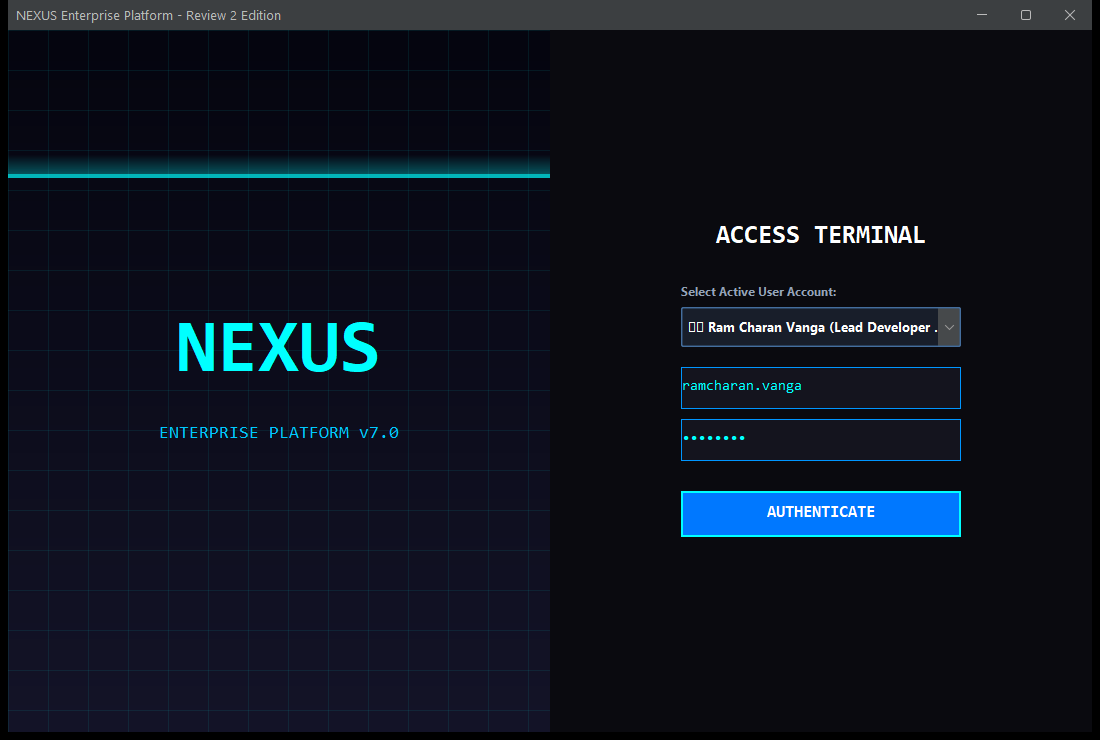
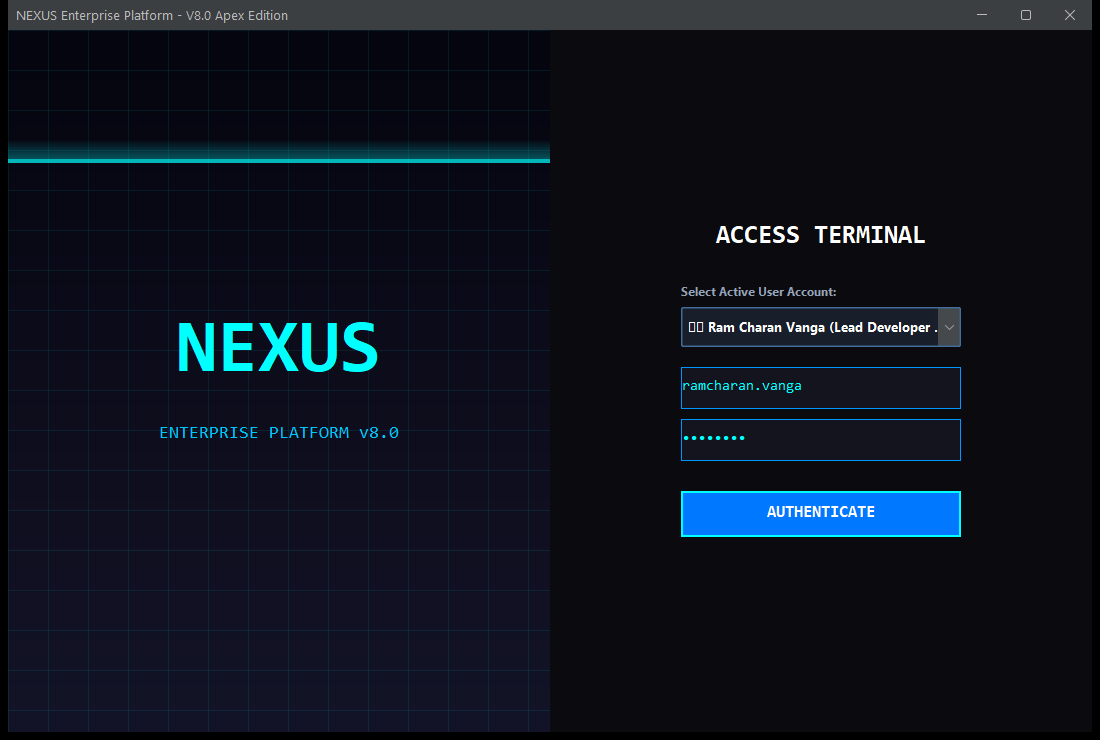
chore(release): upgrade platform to NEXUS V8.0 Apex Edition

Changed region(s): [[0.0, 0.1865, 0.5255, 0.2486], [0.1545, 0.0, 0.2782, 0.0311]]

diff --git a/src/nexus/NexusApplication.java b/src/nexus/NexusApplication.java
@@ -47,7 +47,7 @@ public class NexusApplication extends JFrame {
     private nexus.copilot.AiAssistantDialog aiAssistantDialog;
     
     public NexusApplication() {
-        setTitle("NEXUS Enterprise Platform - Review 2 Edition");
+        setTitle("NEXUS Enterprise Platform - V8.0 Apex Edition");
         setSize(1100, 740);
         setDefaultCloseOperation(JFrame.HIDE_ON_CLOSE);
         setLocationRelativeTo(null);
@@ -207,7 +207,7 @@ public class NexusApplication extends JFrame {
         JPanel leftPanel = new JPanel(new FlowLayout(FlowLayout.LEFT, 10, 0));
         leftPanel.setOpaque(false);
 
-        JLabel brand = new JLabel("⚡ NEXUS 7.0");
+        JLabel brand = new JLabel("⚡ NEXUS 8.0");
         brand.setFont(new Font("Consolas", Font.BOLD, 15));
         brand.setForeground(new Color(0, 255, 255));
 

diff --git a/src/nexus/Review2VerificationRunner.java b/src/nexus/Review2VerificationRunner.java
@@ -31,7 +31,7 @@ import nexus.common.NexusEvent;
 public class Review2VerificationRunner {
     public static void main(String[] args) {
         System.out.println("=============================================================");
-        System.out.println("    NEXUS V7 ENTERPRISE PLATFORM - LIVE AUDIT & VALIDATION    ");
+        System.out.println("    NEXUS V8 ENTERPRISE PLATFORM - LIVE AUDIT & VALIDATION    ");
         System.out.println("=============================================================");
 
         // Initialize DatabaseService early so all events are captured

diff --git a/src/nexus/copilot/NexusAiClient.java b/src/nexus/copilot/NexusAiClient.java
@@ -85,7 +85,7 @@ public class NexusAiClient {
                     .header("Authorization", "Bearer " + apiKey)
                     .header("Content-Type", "application/json")
                     .header("HTTP-Referer", "https://srmist.edu.in/nexus")
-                    .header("X-Title", "NEXUS-V7-SRM")
+                    .header("X-Title", "NEXUS-V8-SRM")
                     .POST(HttpRequest.BodyPublishers.ofString(payload))
                     .timeout(Duration.ofSeconds(TIMEOUT_SECONDS))
                     .build();

diff --git a/src/nexus/media/RealtimeMediaService.java b/src/nexus/media/RealtimeMediaService.java
@@ -24,7 +24,7 @@ public class RealtimeMediaService {
             String encodedQuery = URLEncoder.encode(query.trim(), StandardCharsets.UTF_8.name());
             String json = Jsoup.connect(SEARCH_URL + encodedQuery)
                     .ignoreContentType(true)
-                    .userAgent("Mozilla/5.0 (Windows NT 10.0; Win64; x64) NEXUS/7.0")
+                    .userAgent("Mozilla/5.0 (Windows NT 10.0; Win64; x64) NEXUS/8.0")
                     .timeout(6000)
                     .get()
                     .body()

diff --git a/src/nexus/auth/LoginPanel.java b/src/nexus/auth/LoginPanel.java
@@ -76,7 +76,7 @@ public class LoginPanel extends JPanel {
         leftPanel.add(titleLabel, gbcLeft);
         
         gbcLeft.gridy = 1;
-        JLabel subtitleLabel = new JLabel("ENTERPRISE PLATFORM v7.0");
+        JLabel subtitleLabel = new JLabel("ENTERPRISE PLATFORM v8.0");
         subtitleLabel.setFont(new Font("Consolas", Font.PLAIN, 18));
         subtitleLabel.setForeground(new Color(0, 200, 255));
         leftPanel.add(subtitleLabel, gbcLeft);

diff --git a/src/nexus/finance/RealtimeFinanceService.java b/src/nexus/finance/RealtimeFinanceService.java
@@ -14,7 +14,7 @@ public class RealtimeFinanceService {
         try {
             String json = Jsoup.connect(API_URL)
                     .ignoreContentType(true)
-                    .userAgent("Mozilla/5.0 (Windows NT 10.0; Win64; x64) NEXUS/7.0")
+                    .userAgent("Mozilla/5.0 (Windows NT 10.0; Win64; x64) NEXUS/8.0")
                     .timeout(5000)
                     .get()
                     .body()

diff --git a/src/nexus/realtime/SRMWeatherService.java b/src/nexus/realtime/SRMWeatherService.java
@@ -32,7 +32,7 @@ public class SRMWeatherService {
         try {
             String json = Jsoup.connect(API_URL)
                     .ignoreContentType(true)
-                    .userAgent("Mozilla/5.0 (Windows NT 10.0; Win64; x64) NEXUS/7.0")
+                    .userAgent("Mozilla/5.0 (Windows NT 10.0; Win64; x64) NEXUS/8.0")
                     .timeout(5000)
                     .get()
                     .body()

diff --git a/src/nexus/vault/EncryptedBackupVault.java b/src/nexus/vault/EncryptedBackupVault.java
@@ -20,7 +20,7 @@ import java.util.List;
  * SRM Institute of Science and Technology, Kattankulathur
  */
 public class EncryptedBackupVault {
-    private static final String MASTER_PASSPHRASE = "NEXUS-V7-SRM-ACID-VAULT-2026";
+    private static final String MASTER_PASSPHRASE = "NEXUS-V8-SRM-ACID-VAULT-2026";
     private static final int ITERATIONS = 65536;
     private static final int KEY_LENGTH = 256;
 

diff --git a/src/nexus/database/DatabaseService.java b/src/nexus/database/DatabaseService.java
@@ -28,7 +28,7 @@ import nexus.media.MediaType;
 import nexus.media.MediaStatus;
 
 /**
- * Enterprise-grade asynchronous SQLite persistence layer for NEXUS V7.
+ * Enterprise-grade asynchronous SQLite persistence layer for NEXUS V8.
  * Persists Tasks, Transactions, Goals, Milestones, Media Items, Cinema Bookings, and Market Purchases.
  */
 public class DatabaseService implements NexusListener {

diff --git a/src/nexus/vault/ImmutableAuditChain.java b/src/nexus/vault/ImmutableAuditChain.java
@@ -21,7 +21,7 @@ public class ImmutableAuditChain {
                 0,
                 GENESIS_PREV_HASH,
                 "TX-GENESIS",
-                "NEXUS V7 Master Ledger Initialized (SRM IST Kattankulathur)",
+                "NEXUS V8 Master Ledger Initialized (SRM IST Kattankulathur)",
                 10000.00,
                 System.currentTimeMillis() - 86400000L
         );
